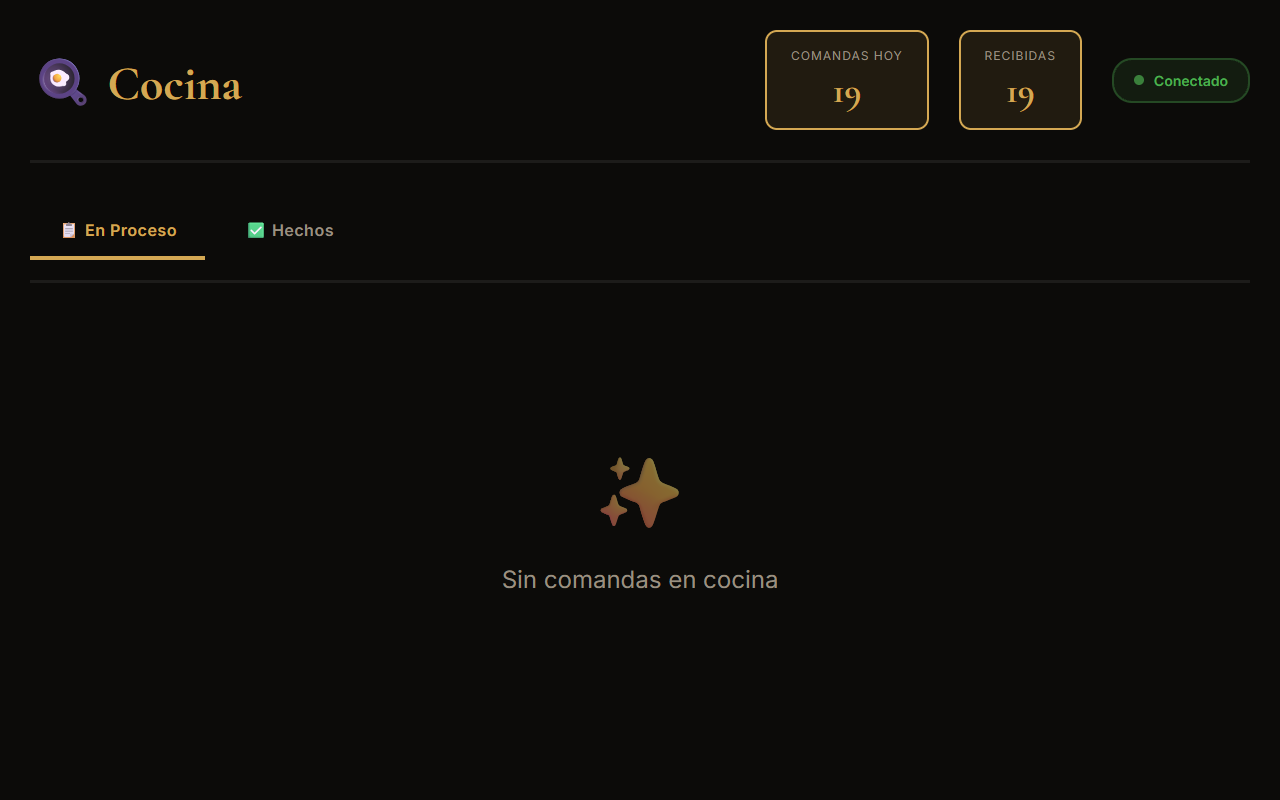
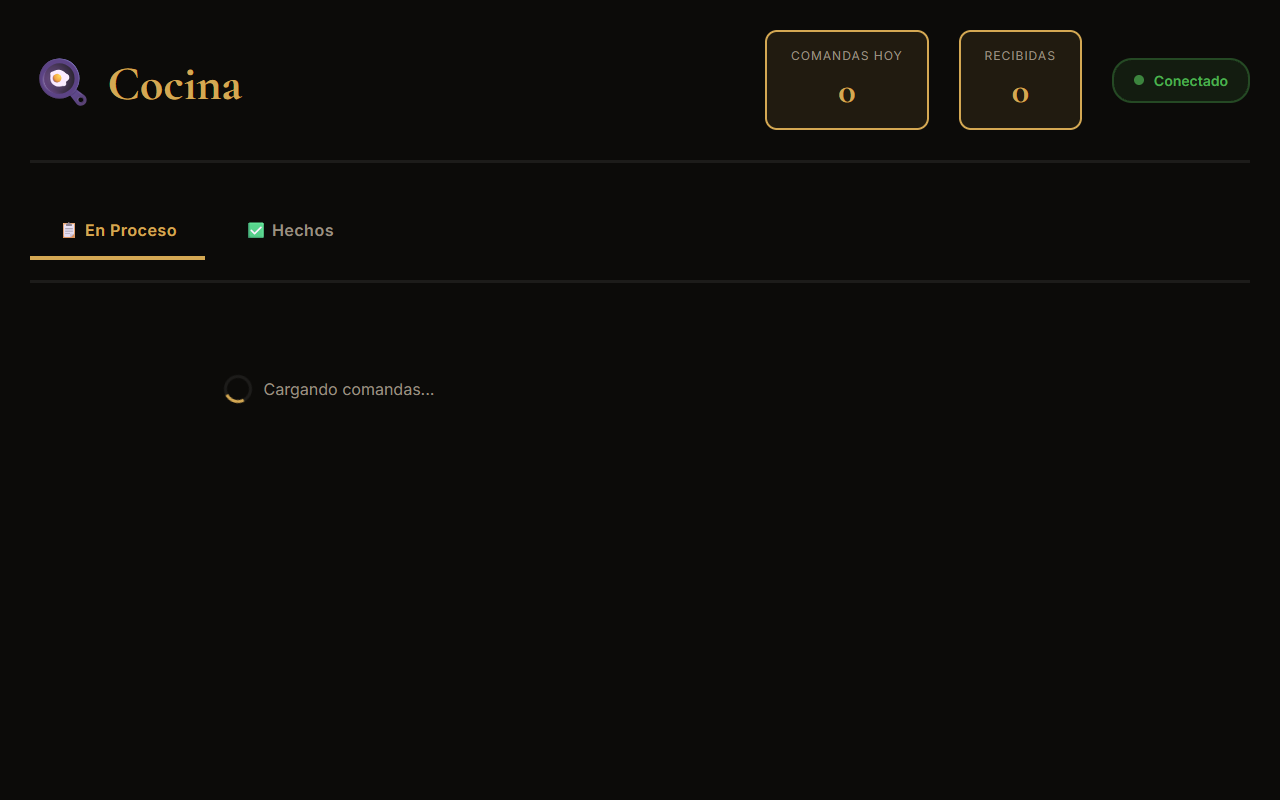
feat: reloj en tiempo real en cocina

diff --git a/frontend/cocina.html b/frontend/cocina.html
@@ -322,6 +322,24 @@
       margin-right: 12px;
     }
 
+    .clock {
+      font-family: 'Cormorant Garamond', serif;
+      font-size: 52px;
+      font-weight: 700;
+      color: var(--gold);
+      letter-spacing: 2px;
+      line-height: 1;
+    }
+
+    .clock-date {
+      font-size: 13px;
+      color: var(--muted);
+      text-align: center;
+      letter-spacing: 1px;
+      margin-top: 4px;
+      text-transform: capitalize;
+    }
+
     @keyframes spin {
       0% { transform: rotate(0deg); }
       100% { transform: rotate(360deg); }
@@ -331,6 +349,10 @@
 <body>
   <div class="header">
     <h1>🍳 Cocina</h1>
+    <div style="text-align:center">
+      <div class="clock" id="clock">00:00:00</div>
+      <div class="clock-date" id="clockDate"></div>
+    </div>
     <div class="header-right">
       <div class="counter-box">
         <div class="counter-label">Comandas Hoy</div>
@@ -377,6 +399,19 @@
       }
       return orderNumberMap[id];
     }
+
+    function updateClock() {
+      const now = new Date();
+      const h = String(now.getHours()).padStart(2, '0');
+      const m = String(now.getMinutes()).padStart(2, '0');
+      const s = String(now.getSeconds()).padStart(2, '0');
+      document.getElementById('clock').textContent = h + ':' + m + ':' + s;
+      document.getElementById('clockDate').textContent = now.toLocaleDateString('es-ES', {
+        weekday: 'long', day: 'numeric', month: 'long'
+      });
+    }
+    updateClock();
+    setInterval(updateClock, 1000);
 
     function connect() {
       const protocol = window.location.protocol === 'https:' ? 'wss:' : 'ws:';
